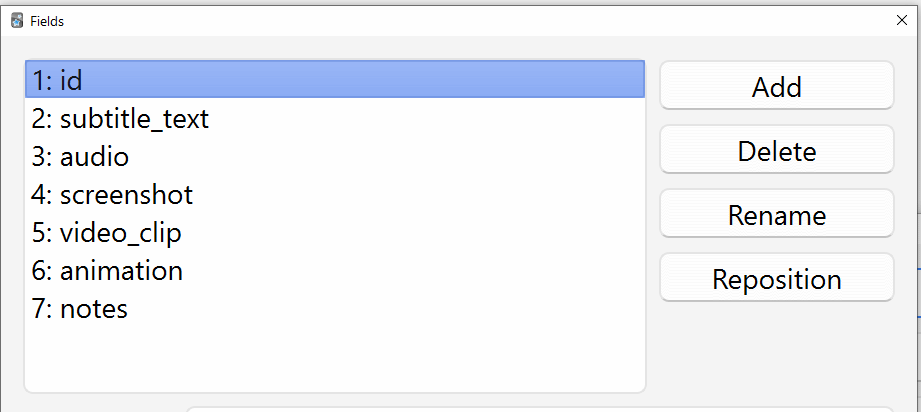
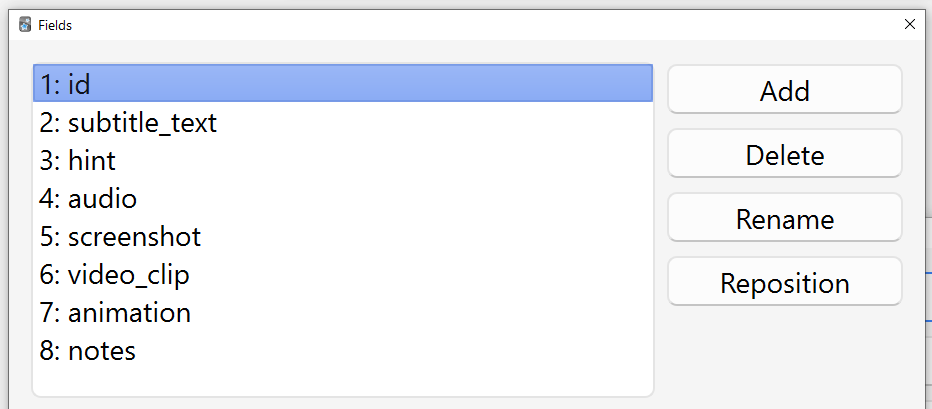
Added hint/context field to Anki flashcards

Changed region(s): [[0.0, 0.0, 1.0, 1.0]]

diff --git a/src/app/features/project-details/export-to-anki-dialog/export-to-anki-dialog.component.ts b/src/app/features/project-details/export-to-anki-dialog/export-to-anki-dialog.component.ts
@@ -75,6 +75,7 @@ export class ExportToAnkiDialogComponent implements OnInit, OnDestroy {
   protected readonly data: ExportToAnkiDialogData;
   protected readonly cardSpecificTags = signal<string[]>([]);
   protected readonly selectedTemplates = signal<AnkiCardTemplate[]>([]);
+  protected readonly hint = signal<string>('');
   protected readonly manualNote = signal<string>('');
   protected readonly isExporting = signal(false);
   protected readonly selectedSubtitleParts = signal<SubtitlePart[]>([]);
@@ -85,6 +86,10 @@ export class ExportToAnkiDialogComponent implements OnInit, OnDestroy {
     } else {
       return this.selectedSubtitleParts().map(p => p.text).join('\n');
     }
+  });
+  protected readonly finalTextPreviewHtml = computed(() => {
+    const text = this.finalTextPreview();
+    return text.replace(/\n/g, '<br>');
   });
   protected readonly lookupNotesView = signal<SelectionGroupView[]>([]);
   protected readonly formattedAnkiNotes = computed(() => {
@@ -181,6 +186,7 @@ export class ExportToAnkiDialogComponent implements OnInit, OnDestroy {
     const projectNotes = this.data.project.notes?.[this.data.subtitleData.id];
     this.initialNotes = cloneDeep(projectNotes);
     this.manualNote.set(projectNotes?.manualNote || '');
+    this.hint.set(projectNotes?.hint || '');
     this.buildNotesView(projectNotes?.lookupNotes);
   }
 
@@ -334,6 +340,7 @@ export class ExportToAnkiDialogComponent implements OnInit, OnDestroy {
         subtitleData: subtitleForExport,
         mediaPath: project.mediaPath,
         exportTime,
+        hint: this.hint(),
         notes: this.formattedAnkiNotes(),
         tags: finalTags,
         suspend: this.suspendCard()
@@ -393,13 +400,14 @@ export class ExportToAnkiDialogComponent implements OnInit, OnDestroy {
 
     const finalNotes: ProjectClipNotes = {
       lookupNotes: finalLookupNotes,
-      manualNote: this.manualNote()
+      manualNote: this.manualNote(),
+      hint: this.hint()
     };
 
     if (!isEqual(this.initialNotes, finalNotes)) {
       const newProjectNotes = cloneDeep(project.notes ?? {});
 
-      if (Object.keys(finalNotes.lookupNotes ?? {}).length > 0 || finalNotes.manualNote) {
+      if (Object.keys(finalNotes.lookupNotes ?? {}).length > 0 || finalNotes.manualNote || finalNotes.hint) {
         newProjectNotes[clipId] = finalNotes;
       } else {
         delete newProjectNotes[clipId];

diff --git a/docs/pl/anki.html b/docs/pl/anki.html
@@ -1,7 +1,7 @@
 <!--
 ⚠ AUTOMATICALLY GENERATED FILE - DO NOT EDIT DIRECTLY ⚠
 ---------------------------------------------------------
-Generated on: Sat, 20 Dec 2025 19:43:28 GMT
+Generated on: Thu, 01 Jan 2026 14:01:03 GMT
 
 To modify this page:
 1. Edit templates in '/github-pages/src/' folder
@@ -97,12 +97,12 @@ To modify this page:
         <li>
           Z zaznaczonym nowym typem notatki (jak na zrzucie ekranu powyżej), kliknij przycisk "Fields" - pojawi się nowe okno:<br>
           • Tutaj możesz skonfigurować pola dla elementów eksportowanych przez <b>Y'ALL Media Player</b>.<br>
-          • Potrzebujesz osobnego pola na "id" oraz przynajmniej 1 pola z: "subtitle_text", "audio", "screenshot", "video_clip", "animation", "notes".<br>
+          • Potrzebujesz osobnego pola na "id" oraz przynajmniej 1 pola spośród: "subtitle_text", "audio", "screenshot", "video_clip" lub "animation" ("notes" oraz "hint" są opcjonalne).<br>
           • Możesz usunąć domyślne pola "Front" i "Back".<br>
           • Powinieneś uzyskać efekt podobny do tego:<br><br>
           <img src="../images/anki/anki-2.png" alt="Lista pól dla typu notatki">
           <i class="highlight">
-            Tutaj używam wszystkich dostępnych pól, ale Ty nie musisz tego robić. Jeśli masz pewność, że nie będziesz potrzebować np. klipu wideo, możesz pominąć pole "video_clip" itd. Pamiętaj, że pole "id" oraz co najmniej 1 inne, z wymienionych powyżej, są wymagane do poprawnej integracji.
+            Tutaj używam wszystkich dostępnych pól, ale Ty nie musisz tego robić. Jeśli masz pewność, że nie będziesz potrzebować np. klipu wideo, możesz pominąć pole "video_clip" itd. Pamiętaj, że pole "id" oraz co najmniej 1 inne, z wymienionych powyżej, są wymagane do poprawnej integracji (oprócz "hint" oraz "notes", które są opcjonalne).
           </i>
           <br><br>
           • Po dodaniu wszystkich potrzebnych pól, naciśnij "Save" aby wyjść z okna dialogowego "Fields" i wrócić do okna dialogowego "Note Types".

diff --git a/docs/anki.html b/docs/anki.html
@@ -1,7 +1,7 @@
 <!--
 ⚠ AUTOMATICALLY GENERATED FILE - DO NOT EDIT DIRECTLY ⚠
 ---------------------------------------------------------
-Generated on: Sat, 20 Dec 2025 19:43:28 GMT
+Generated on: Thu, 01 Jan 2026 14:01:03 GMT
 
 To modify this page:
 1. Edit templates in '/github-pages/src/' folder
@@ -97,12 +97,12 @@ To modify this page:
         <li>
           With the new note type highlighted (just like in the screenshot above), click on the "Fields" button - new dialog window will appear:<br>
           • Here you can configure fields for different elements that <b>Y'ALL Media Player</b> can export.<br>
-          • You need a separate field for "id" and at least 1 field out of: "subtitle_text", "audio", "screenshot", "video_clip", "animation", "notes".<br>
+          • You need a separate field for "id" and at least 1 field out of: "subtitle_text", "audio", "screenshot", "video_clip" or "animation" ("notes" and "hint" are optional).<br>
           • You can remove the default "Front" and "Back" fields.<br>
           • You should end up with something like this:<br><br>
           <img src="images/anki/anki-2.png" alt="List of fields for note type">
           <i class="highlight">
-            Here I am using all the fields available, but you don't have to define them all. If you are 100% sure you won't need video clip for example, you can omit the "video_clip" field etc. Keep in mind that "id" field and at least 1 other, from the list above, are required later to integrate properly.
+            Here I am using all the fields available, but you don't have to define them all. If you are 100% sure you won't need video clip for example, you can omit the "video_clip" field etc. Keep in mind that "id" field and at least 1 other, from the list above, are required later to integrate properly (except for "hint" and "notes" which are totally optional).
           </i>
           <br><br>
           • After adding all the fields that you need, click "Save" to exit the "Fields" dialog and go back to "Note Types" dialog.

diff --git a/src/app/features/global-settings-dialog/anki-settings/anki-template-form-dialog/anki-template-form-dialog.types.ts b/src/app/features/global-settings-dialog/anki-settings/anki-template-form-dialog/anki-template-form-dialog.types.ts
@@ -1,6 +1,8 @@
 import {AbstractControl, FormGroup, ValidationErrors, ValidatorFn} from '@angular/forms';
 import {AnkiFieldMappingSource} from '../../../../model/anki.types';
 
+const CONTENT_FIELDS: AnkiFieldMappingSource[] = ['text', 'audio', 'screenshot', 'video', 'animation'];
+
 export const ankiMappingValidator: ValidatorFn = (control: AbstractControl): ValidationErrors | null => {
   const group = control as FormGroup;
   if (!group || !group.value) {
@@ -10,12 +12,11 @@ export const ankiMappingValidator: ValidatorFn = (control: AbstractControl): Val
   const mappings = group.value;
   const isIdMapped = !!mappings.id;
 
-  // Check if at least one other field (non-ID) has a value
-  const isAnyOtherFieldMapped = Object.entries(mappings)
-    .some(([key, value]) => key !== 'id' && !!value);
+  // Check if at least one content field is mapped (`notes` and `hint` fields are totally optional)
+  const isContentMapped = CONTENT_FIELDS.some(field => !!mappings[field]);
 
-  // The form is valid if the ID is mapped AND at least one other field is mapped.
-  if (isIdMapped && isAnyOtherFieldMapped) {
+  // The form is valid if the ID is mapped AND at least one content field is mapped.
+  if (isIdMapped && isContentMapped) {
     return null; // Valid
   }
 
@@ -62,7 +63,13 @@ export const APP_ANKI_FIELDS: AppAnkiFieldSource[] = [
   {
     key: 'notes',
     label: 'Notes',
-    description: 'All notes added to this clip either via the lookup in the built-in browser or manually.',
+    description: 'All notes added to this clip either manually or via the lookup (in the built-in browser or offline dictionary popup).',
+    required: false
+  },
+  {
+    key: 'hint',
+    label: 'Hint',
+    description: 'Optional context to provide for the sentence, to avoid ambiguity when it can have many meanings.',
     required: false
   },
 ];

diff --git a/src/app/features/project-details/export-to-anki-dialog/export-to-anki-dialog.component.html b/src/app/features/project-details/export-to-anki-dialog/export-to-anki-dialog.component.html
@@ -35,7 +35,7 @@
   } @else {
     <div class="flex flex-column gap-2">
       <label>Subtitle Text</label>
-      <span class="subtitle-full-text">{{ finalTextPreview() }}</span>
+      <span class="subtitle-full-text" [innerHTML]="finalTextPreviewHtml()"></span>
     </div>
   }
 
@@ -111,6 +111,17 @@
     <div class="text-sm mt-2">
       <a href="#" (click)="openGlobalSettings($event)">Add or edit templates in global settings</a>.
     </div>
+  </div>
+
+  <div class="flex flex-column gap-2">
+    <label for="hint-context">Hint</label>
+    <textarea id="hint-context"
+              pInputTextarea
+              [(ngModel)]="hint"
+              [autoResize]="false"
+              rows="2"
+              placeholder="Optional context (e.g., &quot;Character talking about a car...&quot;)"
+              maxlength="1000"></textarea>
   </div>
 
   <div class="flex flex-column gap-2">

diff --git a/electron-main.ts b/electron-main.ts
@@ -1531,7 +1531,7 @@ async function handleAnkiExport(exportRequest: AnkiExportRequest) {
     return {cardId: null, error: 'FFmpeg is not available, cannot export media.'};
   }
 
-  const {template, subtitleData, mediaPath, exportTime, notes, tags, suspend} = exportRequest;
+  const {template, subtitleData, mediaPath, exportTime, hint, notes, tags, suspend} = exportRequest;
   const tempDir = os.tmpdir();
   const uniqueId = `${Date.now()}-${Math.random().toString(36).substring(2, 9)}`;
   const finalFields: Record<string, string> = {};
@@ -1692,6 +1692,10 @@ async function handleAnkiExport(exportRequest: AnkiExportRequest) {
 
         case 'notes':
           finalFields[mapping.destination] = notes;
+          break;
+
+        case 'hint':
+          finalFields[mapping.destination] = hint || '';
           break;
       }
     }

diff --git a/src/app/model/anki.types.ts b/src/app/model/anki.types.ts
@@ -1,7 +1,7 @@
 import {SubtitleData} from '../../../shared/types/subtitle.type';
 import {Project} from './project.types';
 
-export type AnkiFieldMappingSource = 'id' | 'text' | 'audio' | 'screenshot' | 'video' | 'notes' | 'animation';
+export type AnkiFieldMappingSource = 'id' | 'text' | 'audio' | 'screenshot' | 'video' | 'notes' | 'animation' | 'hint';
 
 export interface AnkiFieldMapping {
   source: AnkiFieldMappingSource; // App's data fields
@@ -45,6 +45,7 @@ export interface AnkiExportRequest {
   mediaPath: string;
   exportTime: number;
   notes: string;
+  hint: string;
   tags: string[];
   suspend: boolean;
 }

diff --git a/src/app/features/global-settings-dialog/anki-settings/anki-template-form-dialog/anki-template-form-dialog.component.html b/src/app/features/global-settings-dialog/anki-settings/anki-template-form-dialog/anki-template-form-dialog.component.html
@@ -59,7 +59,7 @@
       @if (form.get('fieldMappings')?.invalid && form.get('fieldMappings')?.touched) {
         <p-message severity="error" icon="fa-regular fa-circle-xmark">
           <p class="m-0">
-            The <b>ID</b> field and at least one other field (e.g., <b>Text</b>, <b>Audio</b>) must be mapped.
+            The <b>ID</b> field and at least one content field other than <b>Notes</b> and <b>Hint</b> (e.g., <b>Subtitle Text</b>, <b>Audio</b>, <b>Video</b>) must be mapped.
           </p>
         </p-message>
       }

diff --git a/src/app/features/global-settings-dialog/anki-settings/anki-card-template-form/anki-card-template-form.component.ts b/src/app/features/global-settings-dialog/anki-settings/anki-card-template-form/anki-card-template-form.component.ts
@@ -6,7 +6,9 @@ import {InputText} from 'primeng/inputtext';
 import {Select} from 'primeng/select';
 import {Fieldset} from 'primeng/fieldset';
 
-const APP_DATA_SOURCES: AnkiFieldMappingSource[] = ['id', 'text', 'audio', 'screenshot', 'video', 'animation'];
+const APP_DATA_SOURCES: AnkiFieldMappingSource[] = [
+  'id', 'text', 'audio', 'screenshot', 'video', 'animation', 'hint', 'notes'
+];
 
 @Component({
   selector: 'app-anki-card-template-form',

diff --git a/docs/dictionaries.html b/docs/dictionaries.html
@@ -1,7 +1,7 @@
 <!--
 ⚠ AUTOMATICALLY GENERATED FILE - DO NOT EDIT DIRECTLY ⚠
 ---------------------------------------------------------
-Generated on: Sat, 20 Dec 2025 19:43:28 GMT
+Generated on: Thu, 01 Jan 2026 14:01:03 GMT
 
 To modify this page:
 1. Edit templates in '/github-pages/src/' folder

diff --git a/docs/index.html b/docs/index.html
@@ -1,7 +1,7 @@
 <!--
 ⚠ AUTOMATICALLY GENERATED FILE - DO NOT EDIT DIRECTLY ⚠
 ---------------------------------------------------------
-Generated on: Sat, 20 Dec 2025 19:43:28 GMT
+Generated on: Thu, 01 Jan 2026 14:01:03 GMT
 
 To modify this page:
 1. Edit templates in '/github-pages/src/' folder

diff --git a/docs/pl/dictionaries.html b/docs/pl/dictionaries.html
@@ -1,7 +1,7 @@
 <!--
 ⚠ AUTOMATICALLY GENERATED FILE - DO NOT EDIT DIRECTLY ⚠
 ---------------------------------------------------------
-Generated on: Sat, 20 Dec 2025 19:43:28 GMT
+Generated on: Thu, 01 Jan 2026 14:01:03 GMT
 
 To modify this page:
 1. Edit templates in '/github-pages/src/' folder
